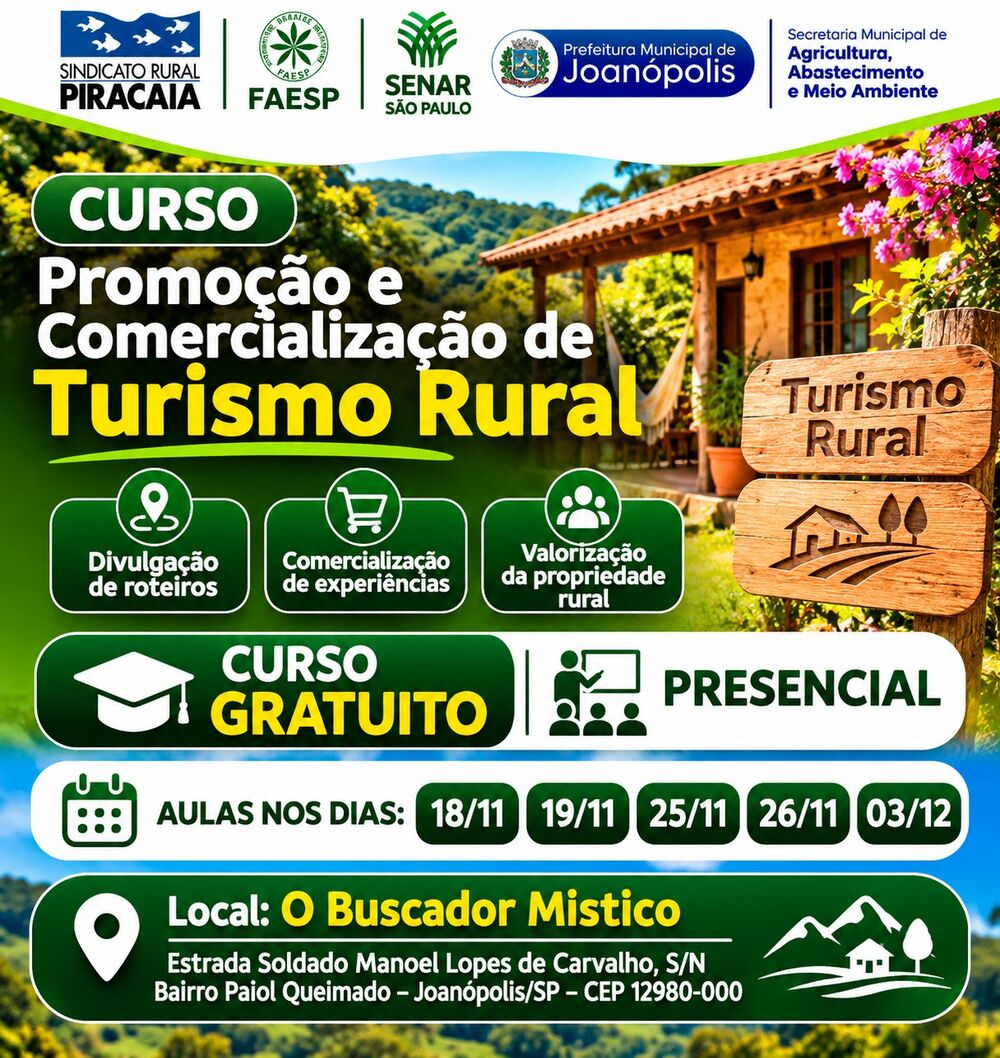
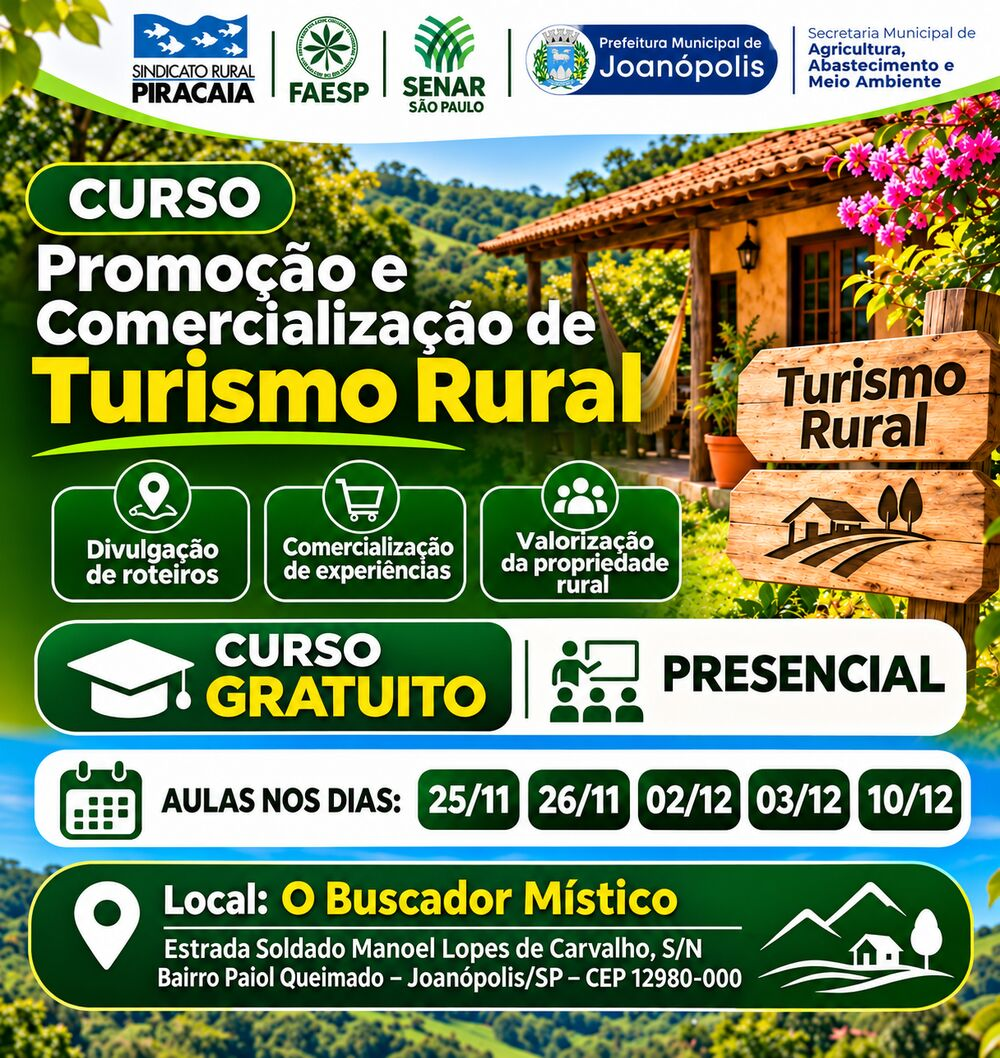
Atualiza datas das aulas e cartaz do curso
Claude-Session: https://claude.ai/code/session_012KxgjoYPNTjPPecGmCFy1z

diff --git a/index.html b/index.html
@@ -4,11 +4,11 @@
 <meta charset="utf-8">
 <meta name="viewport" content="width=device-width, initial-scale=1, viewport-fit=cover">
 <title>Curso Gratuito de Turismo Rural | Joanópolis/SP</title>
-<meta name="description" content="Curso gratuito e presencial de Promoção e Comercialização de Turismo Rural em Joanópolis/SP. Aulas em 18/11, 19/11, 25/11, 26/11 e 03/12. Inscreva-se pelo WhatsApp.">
+<meta name="description" content="Curso gratuito e presencial de Promoção e Comercialização de Turismo Rural em Joanópolis/SP. Aulas em 25/11, 26/11, 02/12, 03/12 e 10/12. Inscreva-se pelo WhatsApp.">
 <meta name="theme-color" content="#0f4d23">
 <meta property="og:title" content="Curso GRATUITO: Promoção e Comercialização de Turismo Rural">
 <meta property="og:description" content="Aprenda a divulgar roteiros, vender experiências e valorizar sua propriedade rural. Presencial em Joanópolis/SP. Vagas limitadas!">
-<meta property="og:image" content="assets/og.jpg">
+<meta property="og:image" content="assets/og.jpg?v=2">
 <meta property="og:type" content="website">
 <meta property="og:locale" content="pt_BR">
 <link rel="preconnect" href="https://fonts.googleapis.com">
@@ -46,7 +46,7 @@
   .logos strong{color:var(--verde)}
   .hero{position:relative;color:#fff;padding:40px 0 44px;background:
       linear-gradient(180deg,rgba(8,45,20,.78) 0%,rgba(10,60,26,.88) 55%,var(--verde) 100%),
-      url(assets/casa.jpg) center/cover no-repeat;}
+      url(assets/casa.jpg?v=2) center/cover no-repeat;}
   .selos{display:flex;flex-wrap:wrap;gap:8px;margin-bottom:16px}
   .selo{font-weight:900;font-size:.8rem;padding:6px 12px;border-radius:99px;background:var(--amarelo);color:var(--verde);text-transform:uppercase;letter-spacing:.04em}
   .selo.b{background:rgba(255,255,255,.16);color:#fff;border:1px solid rgba(255,255,255,.35)}
@@ -173,7 +173,7 @@
     <p class="sub">Aprenda a <strong>atrair mais visitantes</strong>, divulgar seus roteiros e <strong>vender experiências</strong> que valorizam a sua propriedade rural.</p>
     <div class="hero-info">
       <div><span class="ico">🎁</span><span><b>Tudo grátis</b>Café da manhã, almoço, material e certificado</span></div>
-      <div><span class="ico">📅</span><span><b>Aulas · das 8h às 17h</b>18/11 · 19/11 · 25/11 · 26/11 · 03/12</span></div>
+      <div><span class="ico">📅</span><span><b>Aulas · das 8h às 17h</b>25/11 · 26/11 · 02/12 · 03/12 · 10/12</span></div>
       <div><span class="ico">📍</span><span><b>Local</b>O Buscador Místico · Bairro Paiol Queimado, Joanópolis/SP</span></div>
     </div>
     <a class="btn-wa amarelo js-wa" data-msg="Olá! Quero garantir minha vaga no curso gratuito de Promoção e Comercialização de Turismo Rural em Joanópolis." href="#">
@@ -271,11 +271,11 @@
     <h2>Anote na <em>agenda</em></h2>
     <p class="lead">São 5 encontros presenciais, todos das <strong>8h às 17h</strong>. Participe de todos para aproveitar o conteúdo completo.</p>
     <div class="datas">
-      <div class="data"><b>18</b><span>nov · qua</span></div>
-      <div class="data"><b>19</b><span>nov · qui</span></div>
       <div class="data"><b>25</b><span>nov · qua</span></div>
       <div class="data"><b>26</b><span>nov · qui</span></div>
+      <div class="data"><b>02</b><span>dez · qua</span></div>
       <div class="data"><b>03</b><span>dez · qui</span></div>
+      <div class="data"><b>10</b><span>dez · qui</span></div>
     </div>
     <div class="local">
       <h3>📍 O Buscador Místico</h3>
@@ -310,7 +310,7 @@
     <span class="kicker">Compartilhe</span>
     <h2>Conhece alguém que <em>precisa ver isso?</em></h2>
     <p class="lead">Ajude a divulgar! Copie o texto abaixo e mande para amigos, vizinhos e grupos de quem trabalha no campo.</p>
-    <img class="flyer" src="assets/flyer.jpg" alt="Cartaz do curso gratuito e presencial de Promoção e Comercialização de Turismo Rural, com aulas em 18/11, 19/11, 25/11, 26/11 e 03/12 no O Buscador Místico, Joanópolis/SP" loading="lazy" width="1000" height="1058">
+    <img class="flyer" src="assets/flyer.jpg?v=2" alt="Cartaz do curso gratuito e presencial de Promoção e Comercialização de Turismo Rural, com aulas em 25/11, 26/11, 02/12, 03/12 e 10/12 no O Buscador Místico, Joanópolis/SP" loading="lazy" width="1000" height="1058">
     <div class="copiar">
       <label for="texto-divulgar">📣 Copie e cole no WhatsApp, no status ou nos grupos:</label>
       <textarea id="texto-divulgar" readonly></textarea>
@@ -388,7 +388,7 @@
     "✅ Presencial, com tira-dúvidas na hora\n" +
     "✅ Qualidade SENAR\n" +
     "✅ Ótima chance de conhecer outros empreendedores da região 🤝\n\n" +
-    "📅 *Aulas:* 18/11, 19/11, 25/11, 26/11 e 03/12\n" +
+    "📅 *Aulas:* 25/11, 26/11, 02/12, 03/12 e 10/12\n" +
     "🕗 *Horário:* das 8h às 17h, todos os dias\n" +
     "📍 *Local:* O Buscador Místico\n" +
     "Estrada Soldado Manoel Lopes de Carvalho, S/N, Bairro Paiol Queimado, Joanópolis/SP\n\n" +

diff --git a/README.md b/README.md
@@ -1,7 +1,7 @@
 # Landing page: Curso de Promoção e Comercialização de Turismo Rural
 
 Página para celular que divulga o curso gratuito e presencial em Joanópolis/SP
-(aulas 18/11, 19/11, 25/11, 26/11 e 03/12, no O Buscador Místico).
+(aulas 25/11, 26/11, 02/12, 03/12 e 10/12, no O Buscador Místico).
 
 ## Trocar o número do WhatsApp
 
